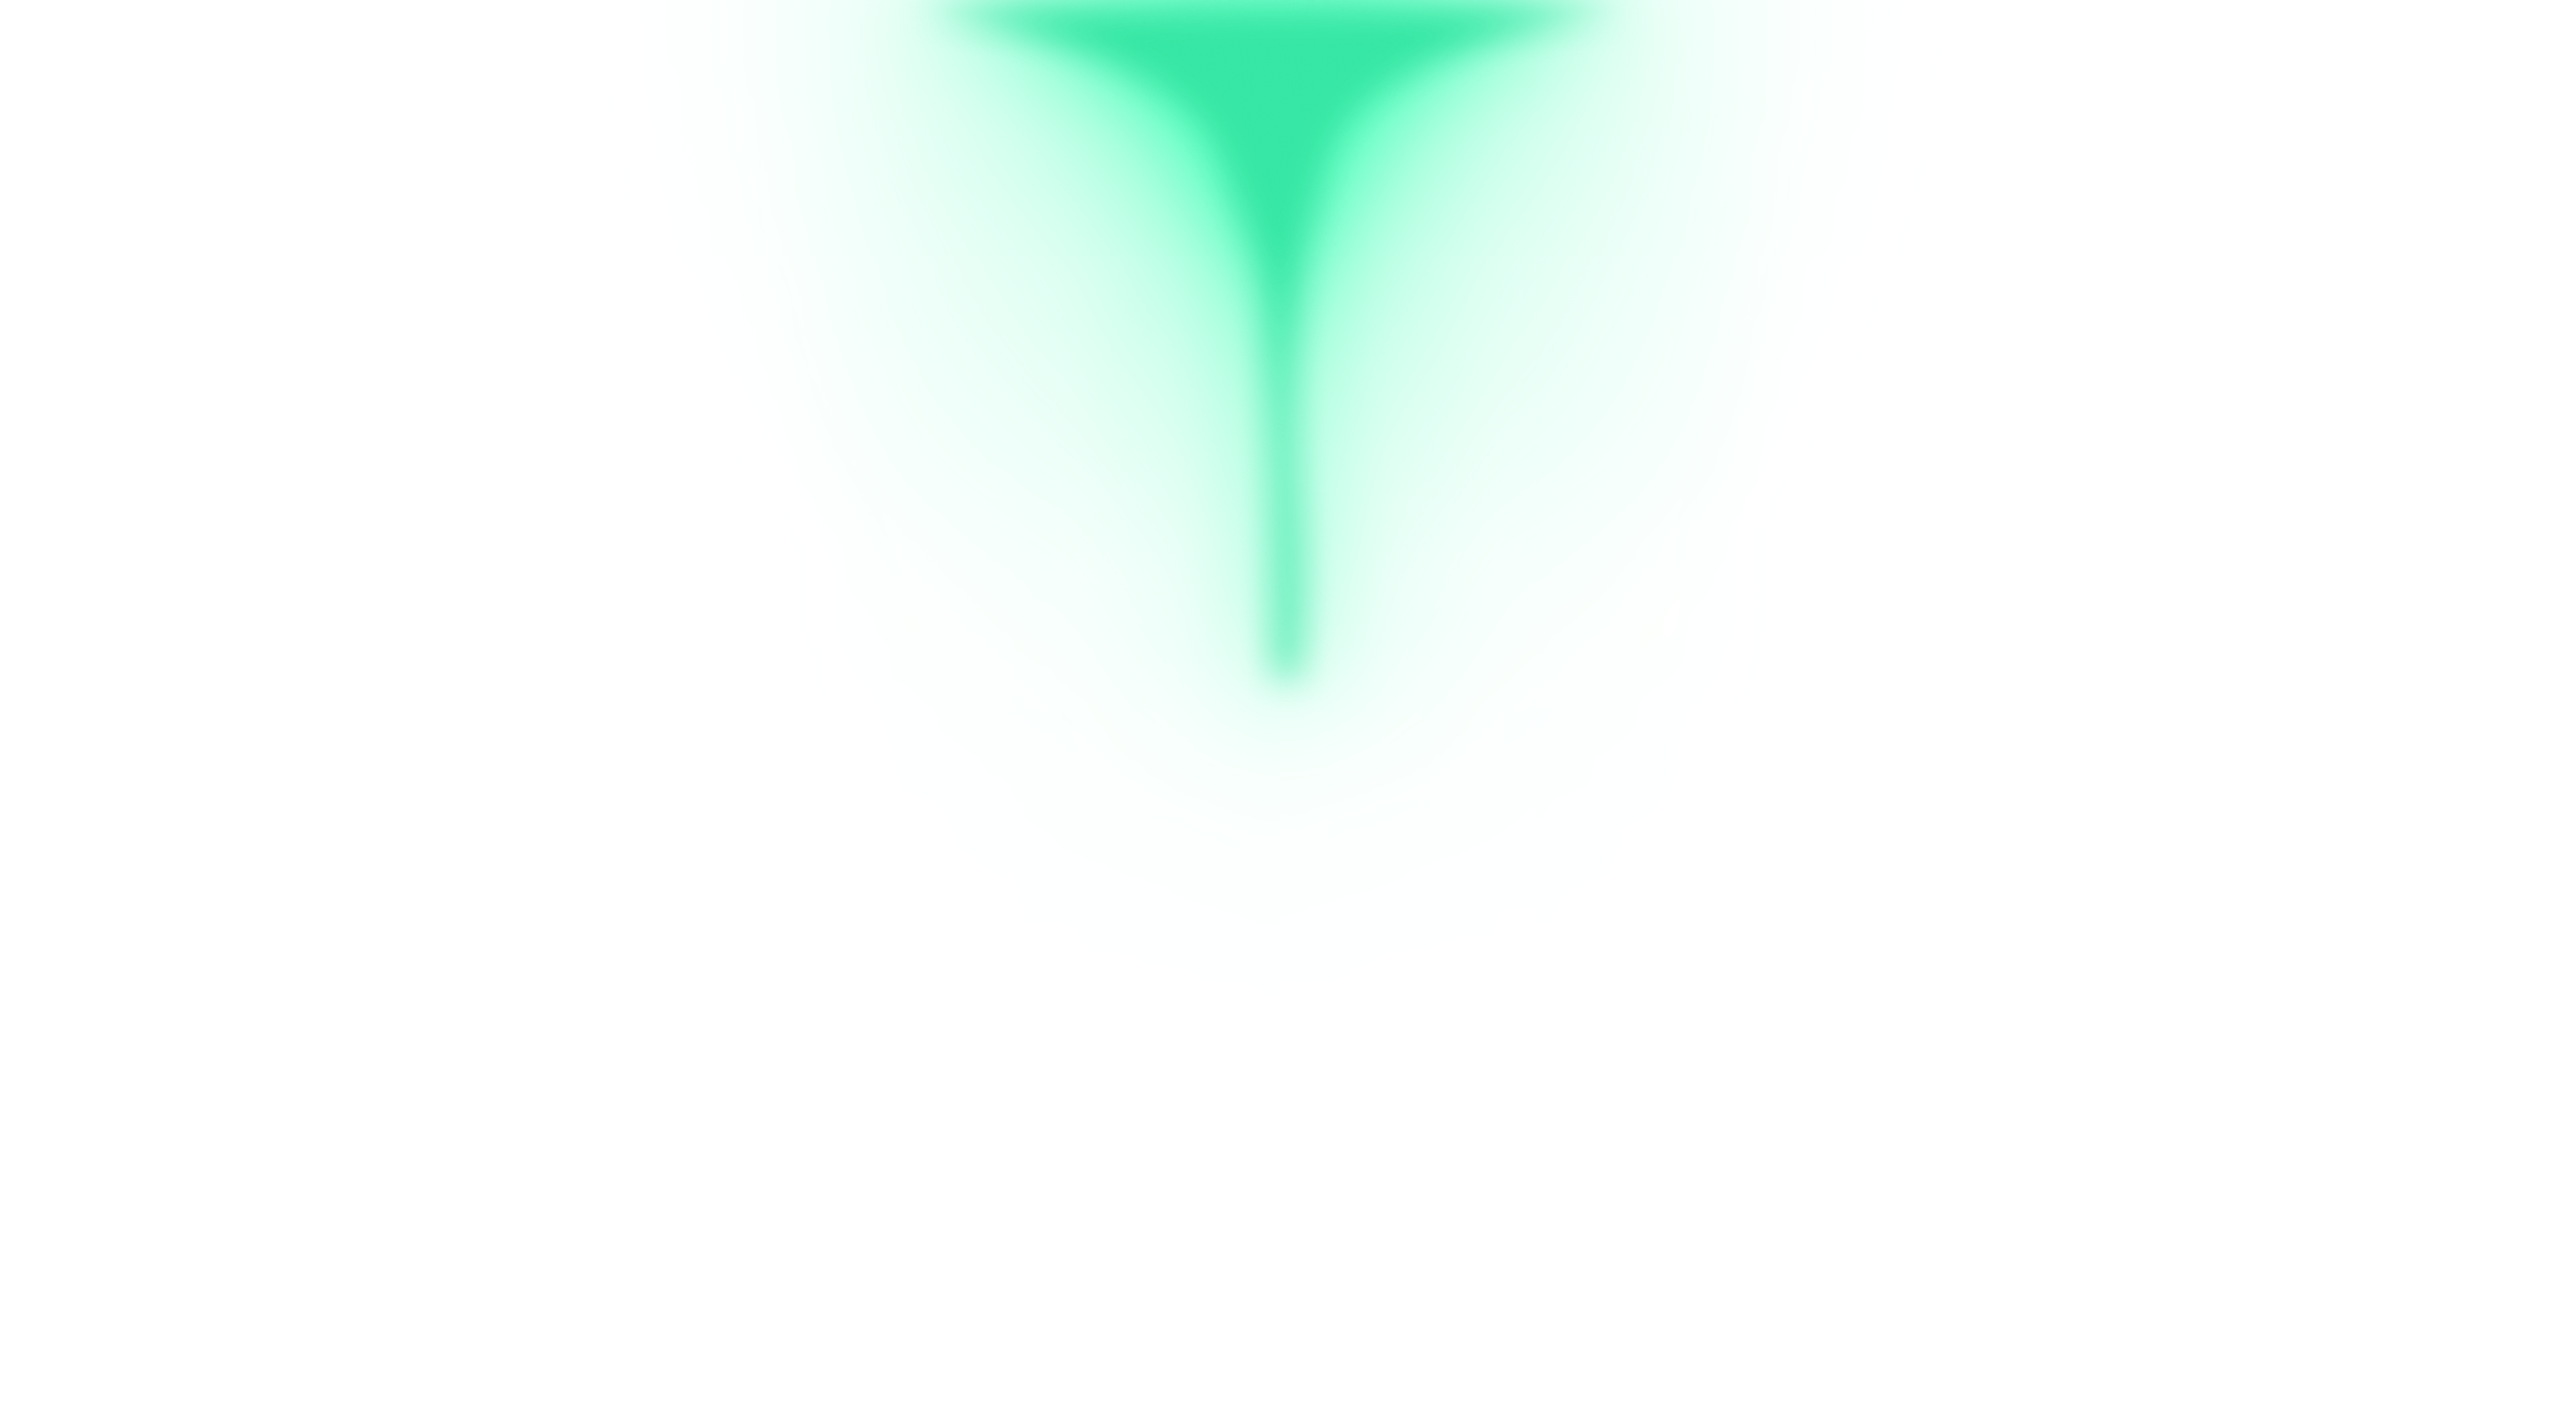
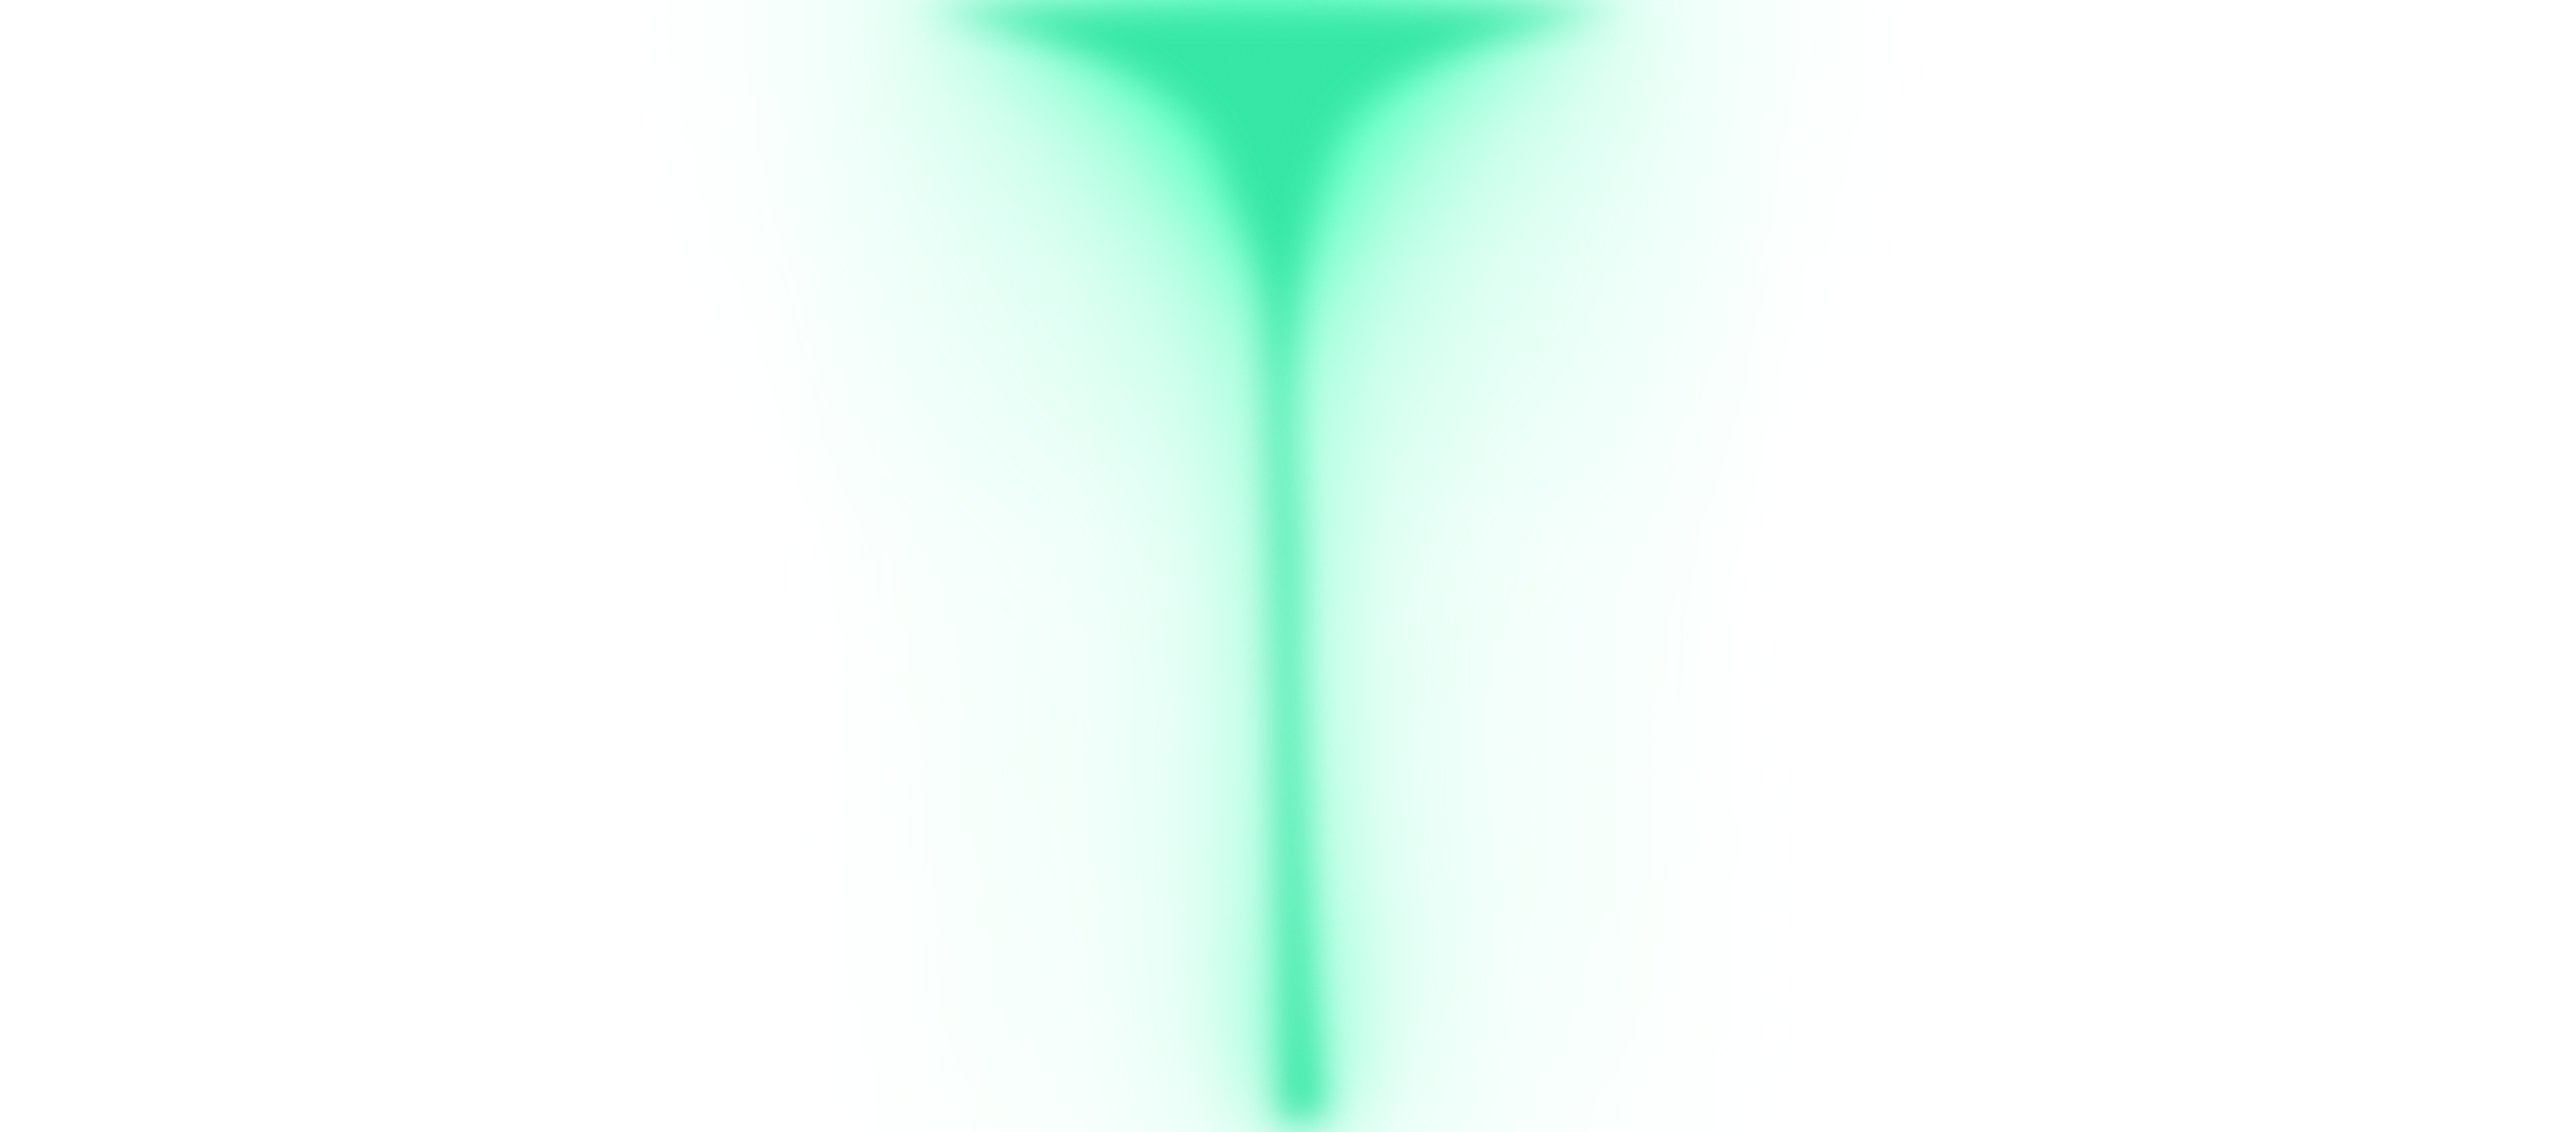
feat: add spinning animation and update styles for improved layout in Page component

diff --git a/app/landings/unique/page.tsx b/app/landings/unique/page.tsx
@@ -17,67 +17,45 @@ import UniqueTopbar from "@/components/sections/topbars/uniqueTopbar"
 export default function Page() {
   return (
     <main className="">
-      <div className="bg-[url('/bg2.png')] bg-cover bg-top bg-no-repeat bg-fixed">
+      <div className="bg-[url('/bg2.png')] bg-cover bg-top bg-no-repeat bg-fixed pt-4">
       <UniqueTopbar />
       {/* <video autoPlay muted loop className="absolute top-0 left-0 w-full h-full object-cover z-[-1]">
         <source src="/bg.mp4" type="video/mp4" />
       </video> */}
-      <header className="min-h-[600px] lg:px-[5%] p-4 md:pt-[6%] pt-[100px] md:mx-auto flex flex-col justify-center items-center text-center gap-4">
+      <header className="lg:px-[5%] px-4 md:pt-[6%] pt-[100px] md:mx-auto flex flex-col justify-center items-center text-center w-full">
       
-        <div className="flex flex-col justify-center items-center text-center gap-4 md:px-[18%] sm:px-[20%]">
+        <div className="flex flex-col items-center text-center gap-4 md:px-[18%] sm:px-[20%]">
           <div className="relative overflow-hidden w-fit h-fit">
-            <h1 className="bg-clip-text text-transparent bg-gradient-to-b from-foreground to-transparent xl:text-[3em] lg:text-[3em] sm:text-[3em] text-[32px] leading-[120%] tracking-[-4%]">
+            <h1 className="bg-clip-text text-transparent bg-gradient-to-b from-foreground to-foreground/[0.4] xl:text-[3em] lg:text-[3em] sm:text-[3em] text-[48px] leading-[120%] tracking-[-4%]">
               Build at the <br /> Speed of Thought
             </h1>
           </div>
           <ScrollTextReveal repeat={true} tag="p" delay={0.6} className="relative overflow-hidden mb-4 md:w-[100%] mx-auto opacity-50">
-            <span>Uinque helps you build a no-code AI app in minutes</span>
+            <span>Unique helps you build a no-code AI app in minutes</span>
           </ScrollTextReveal>
 
-          <div className="w-full [perspective:1200px] overflow-hidden flex justify-center items-center">
-            <div className="mx-auto w-[90%] max-w-[760px] rotate-x-[-30deg] transform-gpu rounded-[12px] overflow-hidden border-4 border-white shadow-[18px_24px_45px_rgba(0,0,0,0.2)] dark:border-border">
-              <div className="aspect-3/1 h-[160px] border border-black/10 bg-gradient-to-tr via-green-500 from-sky-500 to-green-200 dark:to-green-800" />
-            </div>
-          </div>
-
-          <ScrollAnimate className="" start="top 100%" delay={1} animation="slideUp">
-            <button className="py-2 px-2 pr-4 flex items-center justify-between gap-2 border border-border bg-white dark:bg-[#101010] font-medium rounded-full w-fit shadow-lg">
+          <ScrollAnimate className="relative w-fit h-fit overflow-hidden p-[2px] rounded-full" start="top 100%" delay={1} animation="slideUp">
+            <span className="absolute top-0 left-0 bg-gradient-to-r from-lime-300 via-green-400 to-transparent w-[190px] h-[48px] z-1 blur-[8px] rounded-full animate-spin-slow"></span>
+            <button className="relative h-[48px] block px-2 pr-4 flex items-center justify-between gap-2 border border-border bg-white dark:bg-[#101010]/[0.4] backdrops-blur-sm font-medium rounded-full w-[190px] shadow-lg z-2">
               <span className="rounded-full p-[6px] bg-black dark:bg-white/[0.05] text-white "><ArrowUpRight size={15} /></span> 
               <span className="">Get started today</span>
             </button>
           </ScrollAnimate>
-        </div>
-
-        {/* ========== MARQUEE ========== */}
-      <section className="child pt-12 pb-12 md:w-[90%] mx-auto opacity-50 overflow-hidden w-full">
-        <div className="relative overflow-hidden lg:w-[70%] md:w-[90%] mx-auto py-2">
-              <span className="h-[60px] py-4 w-[30%] absolute top-0 left-0 bg-gradient-to-r from-background z-2"></span>
-              <span className="h-[60px] py-4 w-[30%] absolute top-0 right-0 bg-gradient-to-r to-background z-2"></span>
-            <div className="marquee-track">
-                {[0, 1].map((rep) => (
-                    <div key={rep} className="marquee-group flex items-center">
-                        {[
-                          { id: 0, icon: <EurroIcon className="h-[16px] w-auto" />}, 
-                          {id: 1, icon: <FimmerIcon className="h-[16px] w-auto" />}, 
-                          {id: 2, icon: <InfiniIcon className="h-[16px] w-auto" />}, 
-                          {id: 3, icon: <OriginaIcon className="h-[16px] w-auto" />}, 
-                          {id: 4, icon: <SitaraIcon className="h-[16px] w-auto" />}
-                        ].map((item, i) => (
-                            <div key={i} className="flex items-center gap-20 px-15 ">
-                                <span className="text-[10px] font-medium whitespace-nowrap uppercase">{item.icon}</span>
-                            </div>
-                        ))}
-                    </div>
-                ))}
+            
+          <div className="w-full [perspective:1200px] flex justify-center items-center mt-6 translate-y-4">
+            <div className="mx-auto w-fit rotate-x-[-30deg] transform-gpu rounded-[12px] overflow-hidden border-4 border-white shadow-[18px_24px_45px_rgba(0,0,0,0.2)] dark:border-border">
+              <div className="aspect-3/1 sm:h-[160px] border border-black/10 bg-gradient-to-tr via-green-500 from-sky-500 to-green-200 dark:to-green-800" />
             </div>
           </div>
-      </section>
+
+        </div>
+      
       </header>
 
       </div>
 
       <section className="py-[40px] ">
-        <div className="child flex sm:flex-row flex-col min-h-[600px] justify-between gap-4 lg:w-[90%] md:w-[90%] mx-auto w-full md:px-0 px-4 py-[40px]">
+        <div className="flex sm:flex-row flex-col min-h-[600px] justify-between gap-4 lg:w-[90%] md:w-[90%] mx-auto w-full md:px-0 px-4 py-[40px]">
           <div className="flex flex-col justify-end gap-4 sm:w-[50%] w-full">
             <div className="flex items-center gap-1 p-2 px-4 rounded-full w-fit bg-black/[0.6] backdrop-blur-sm text-[10px] uppercase text-white">
                 How it works

diff --git a/app/globals.css b/app/globals.css
@@ -181,3 +181,14 @@ html {
   scroll-snap-stop: normal;
   transition: scroll-margin 1s;
 }
+.animate-spin-slow {
+  animation: 4s linear spin-slow infinite;
+}
+@keyframes spin-slow {
+  0% {
+    transform: rotate(0deg);
+  }
+  100% {
+    transform: rotate(360deg);
+  }
+}
